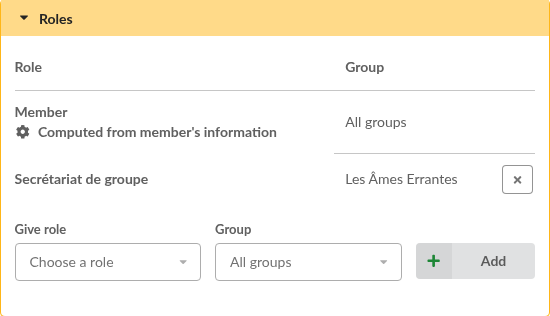
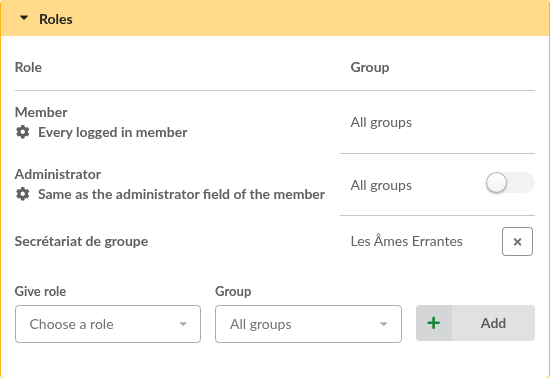
Document system roles members and administrator switch

diff --git a/source/usermanual/roles.rst b/source/usermanual/roles.rst
@@ -40,7 +40,7 @@ Five roles are given from members information; they cannot be renamed, removed n
      - members for who the *administrator* checkbox has been checked
      - Staff member
 
-A role **inherits** the permissions of its parent: an administrator gets every permission of staff members, and those of members.
+A role **inherits** the permissions of its parent: an administrator gets every permission of staff members, and those of members. The page of a system role tells where it comes from, and lists the administrators, staff members or group managers who have it.
 
 On a new installation, system roles get what access levels allowed before:
 
@@ -100,7 +100,7 @@ Administrators see the roles of a member on their card: those computed from memb
    :align: center
    :alt: Roles on a member card
 
-When editing a member, the **Roles** block lists the same roles. Computed ones cannot be changed there. Choose one of the roles you have created, a group or **All groups**, and use **Add**; the cross takes a given role back, and **Cancel** keeps it. Changes are stored when the member is saved.
+When editing a member, the **Roles** block lists the same roles, and where computed ones come from. Those cannot be changed there, except **Administrator**: its switch is the same as the administrator field of the form. Choose one of the roles you have created, a group or **All groups**, and use **Add**; the cross takes a given role back, and **Cancel** keeps it. Changes are stored when the member is saved.
 
 .. image:: ../_styles/static/images/usermanual/member_roles_edit.png
    :scale: 50%
